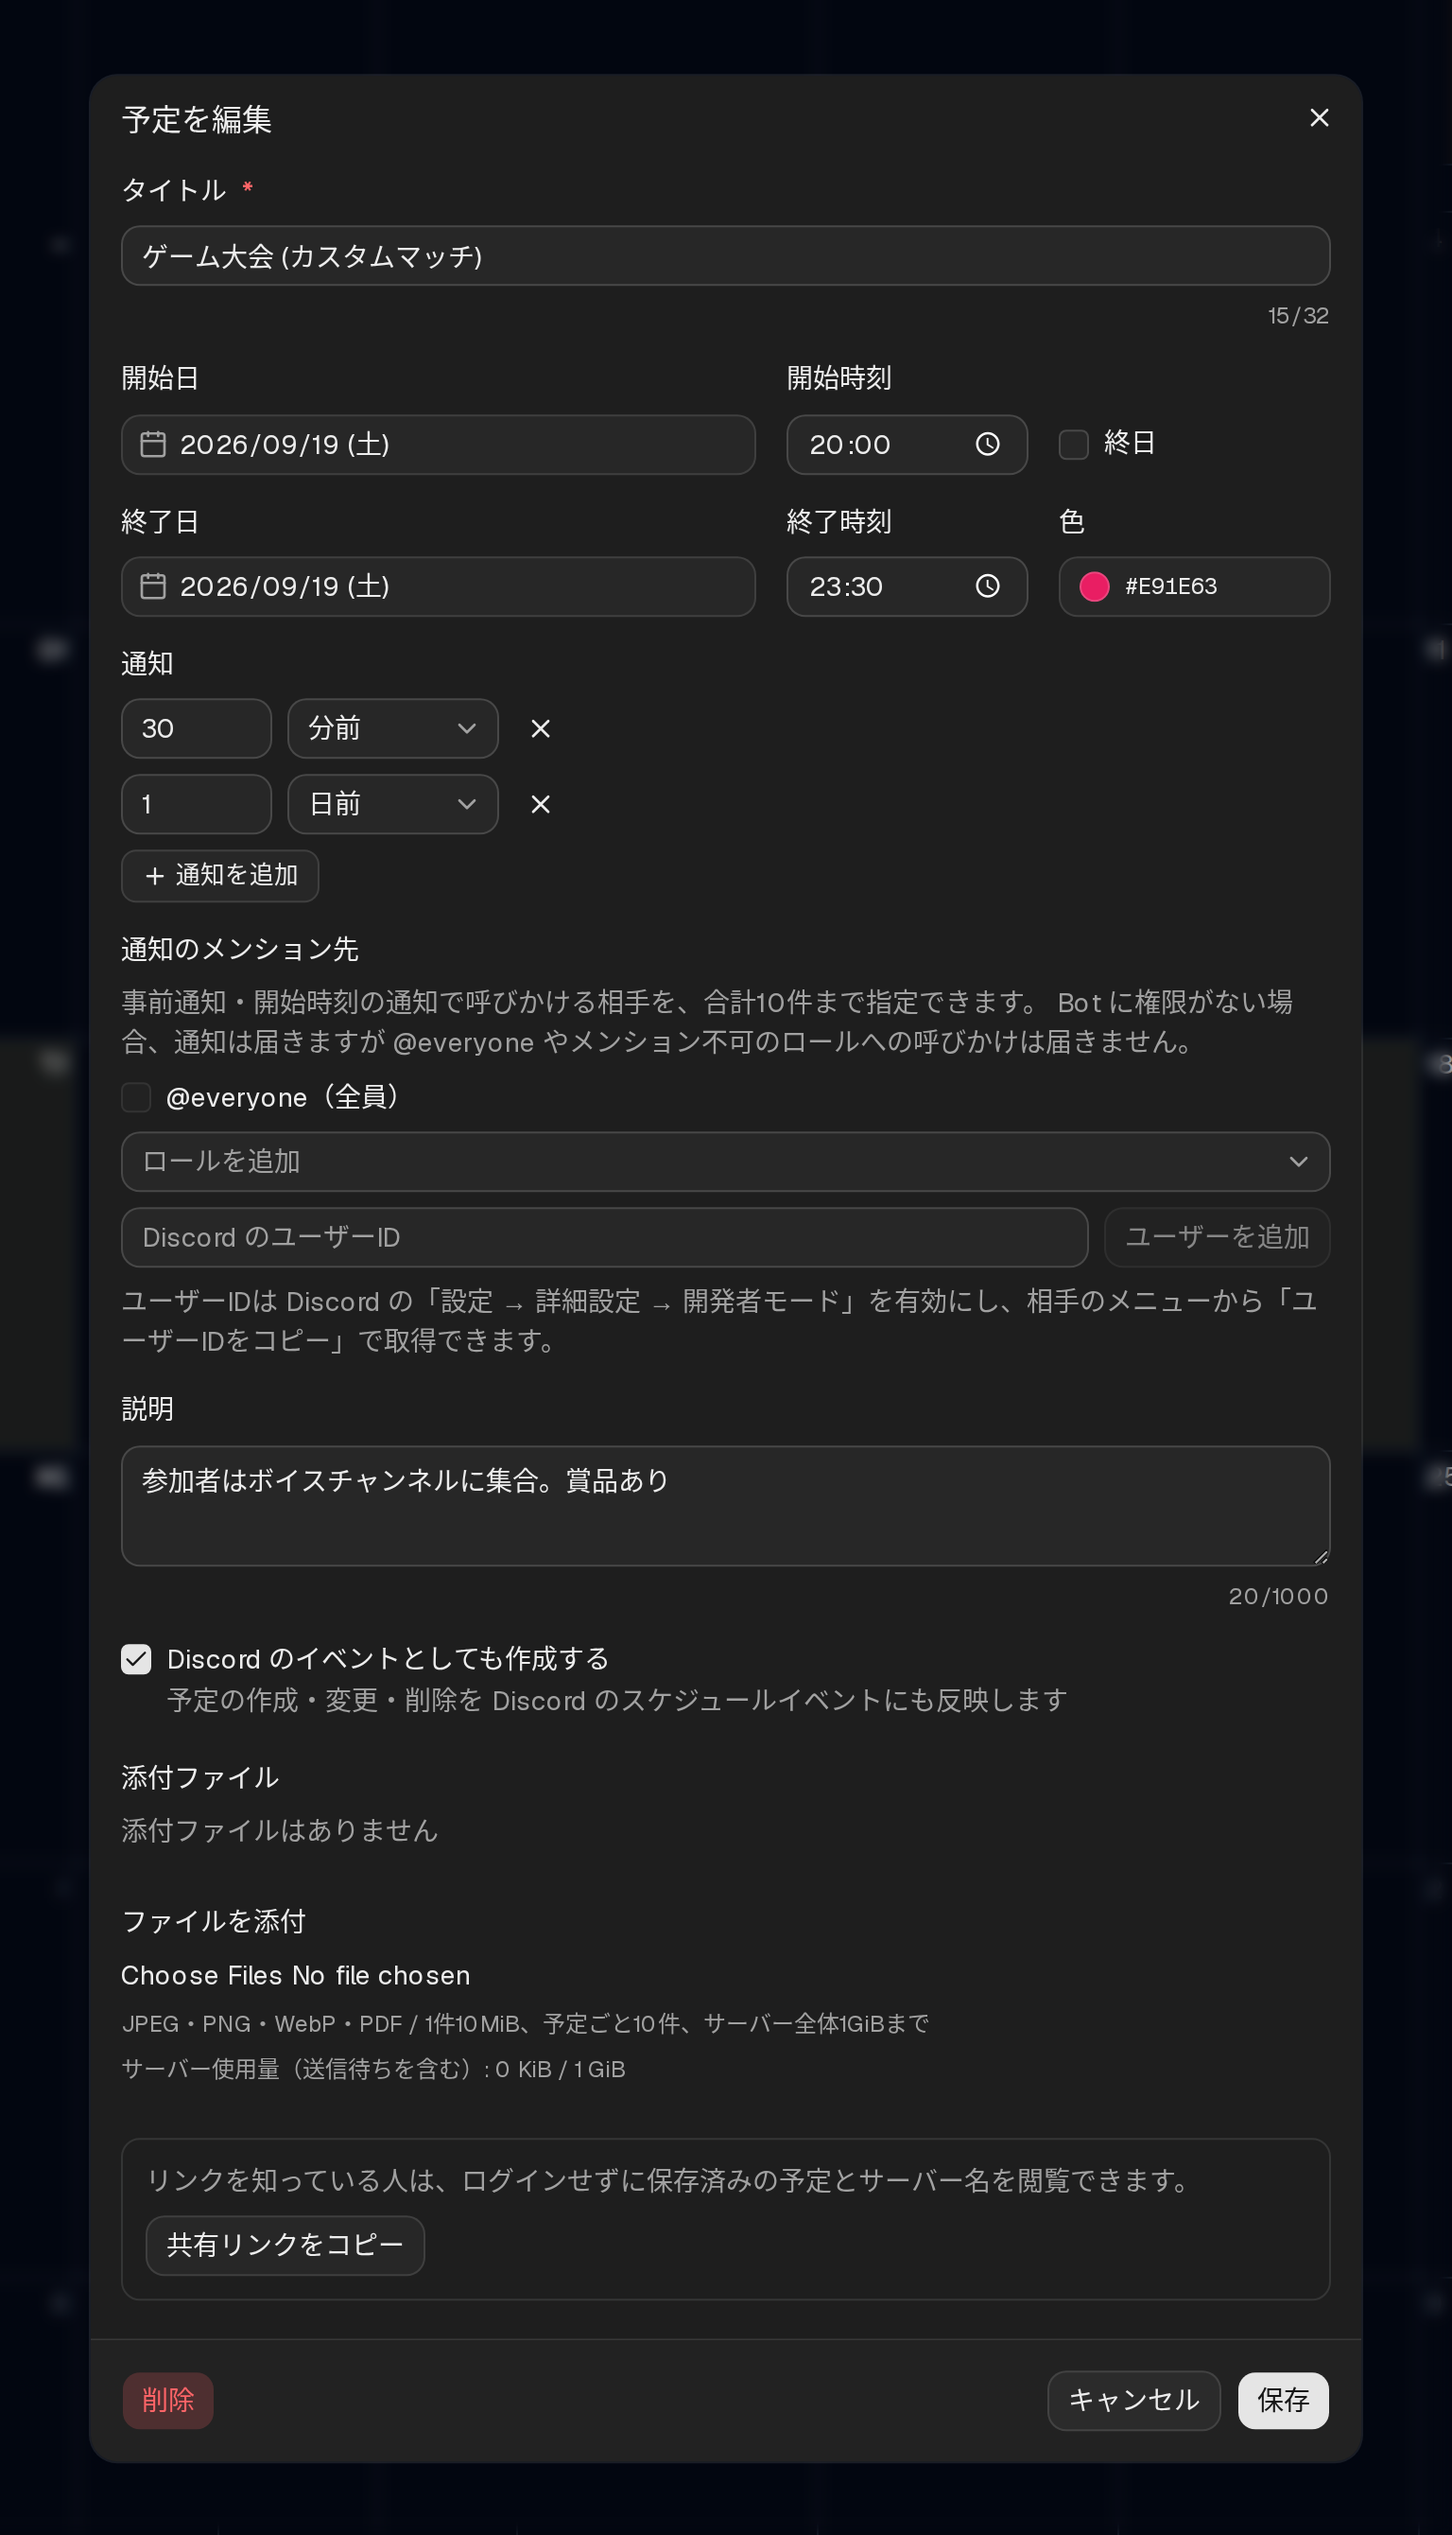
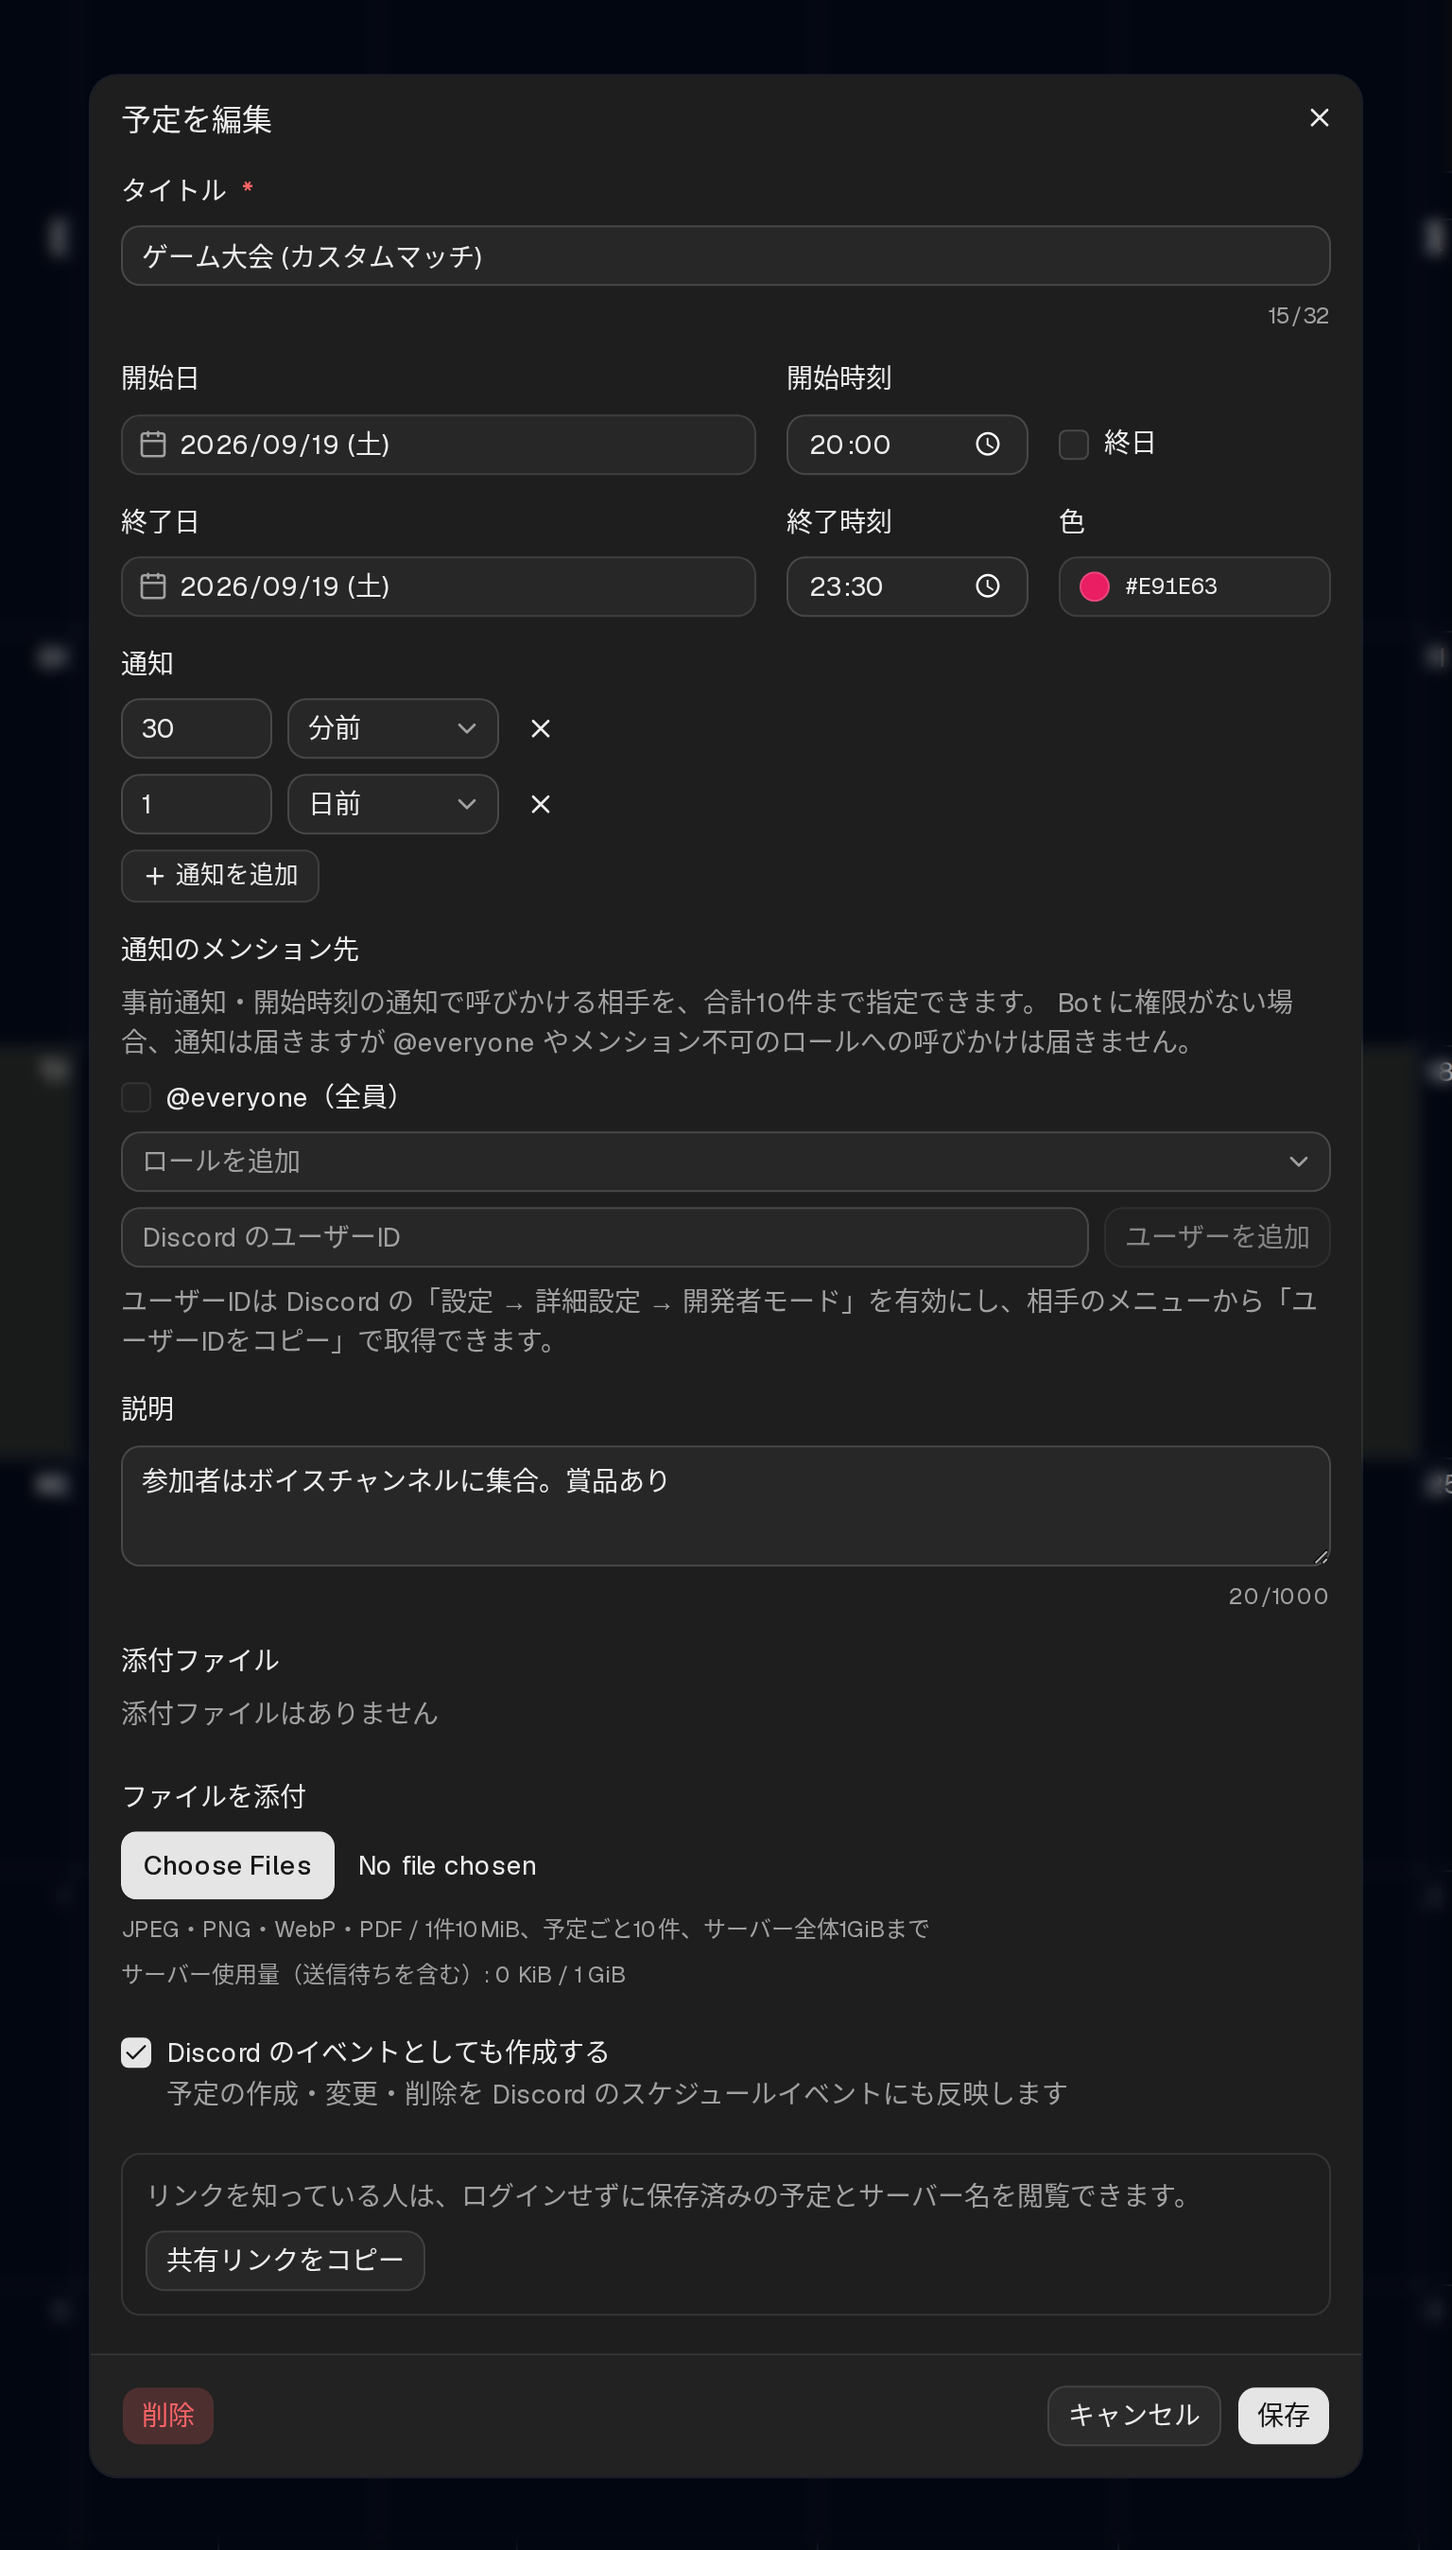
添付の選択ボタンを見やすくし説明欄の直後へ移動
ファイル選択ボタンに背景色・余白・フォーカス表示を付ける。
添付欄を説明とDiscordイベント連携の間へ移動し、掲載画像と更新履歴を更新。

diff --git a/web/src/components/event-form-dialog.tsx b/web/src/components/event-form-dialog.tsx
@@ -429,6 +429,34 @@ function EventForm({
             </div>
           </Field>
 
+          {mentionGuildId && (
+            <>
+              {attachmentEventId && (
+                <EventAttachments
+                  guildId={mentionGuildId}
+                  eventId={attachmentEventId}
+                  editable={!uploads.busy}
+                />
+              )}
+              <AttachmentPicker
+                guildId={mentionGuildId}
+                eventId={attachmentEventId}
+                items={uploads.items}
+                onChange={uploads.setItems}
+                busy={uploads.busy || isSubmitting}
+                onRemove={uploads.discard}
+                onRetry={() => {
+                  if (attachmentEventId) void uploads.upload(attachmentEventId);
+                }}
+              />
+              {savedEvent && uploads.items.length > 0 && (
+                <p role="status" className="text-sm">
+                  予定は保存済みです。添付ファイルの送信を完了してください。
+                </p>
+              )}
+            </>
+          )}
+
           {discordSync && (
             <DiscordEventField
               control={control}
@@ -441,33 +469,6 @@ function EventForm({
           )}
         </FieldGroup>
 
-        {mentionGuildId && (
-          <>
-            {attachmentEventId && (
-              <EventAttachments
-                guildId={mentionGuildId}
-                eventId={attachmentEventId}
-                editable={!uploads.busy}
-              />
-            )}
-            <AttachmentPicker
-              guildId={mentionGuildId}
-              eventId={attachmentEventId}
-              items={uploads.items}
-              onChange={uploads.setItems}
-              busy={uploads.busy || isSubmitting}
-              onRemove={uploads.discard}
-              onRetry={() => {
-                if (attachmentEventId) void uploads.upload(attachmentEventId);
-              }}
-            />
-            {savedEvent && uploads.items.length > 0 && (
-              <p role="status" className="text-sm">
-                予定は保存済みです。添付ファイルの送信を完了してください。
-              </p>
-            )}
-          </>
-        )}
         {isEdit && allowShare && (
           <EventShareControls key={state.event.id} event={state.event} />
         )}

diff --git a/web/src/components/event-attachments.tsx b/web/src/components/event-attachments.tsx
@@ -270,7 +270,7 @@ export function AttachmentPicker({
         multiple
         accept={ATTACHMENT_ACCEPT}
         disabled={busy || !limits.data?.enabled}
-        className="block w-full min-w-0 text-sm"
+        className="block w-full min-w-0 rounded-md text-sm file:mr-3 file:cursor-pointer file:rounded-md file:border-0 file:bg-primary file:px-3 file:py-2 file:text-sm file:font-medium file:text-primary-foreground file:shadow-xs hover:file:bg-primary/90 focus-visible:outline-2 focus-visible:outline-offset-2 focus-visible:outline-ring disabled:opacity-50"
         onChange={(e) => {
           select(e.target.files);
           e.target.value = "";
